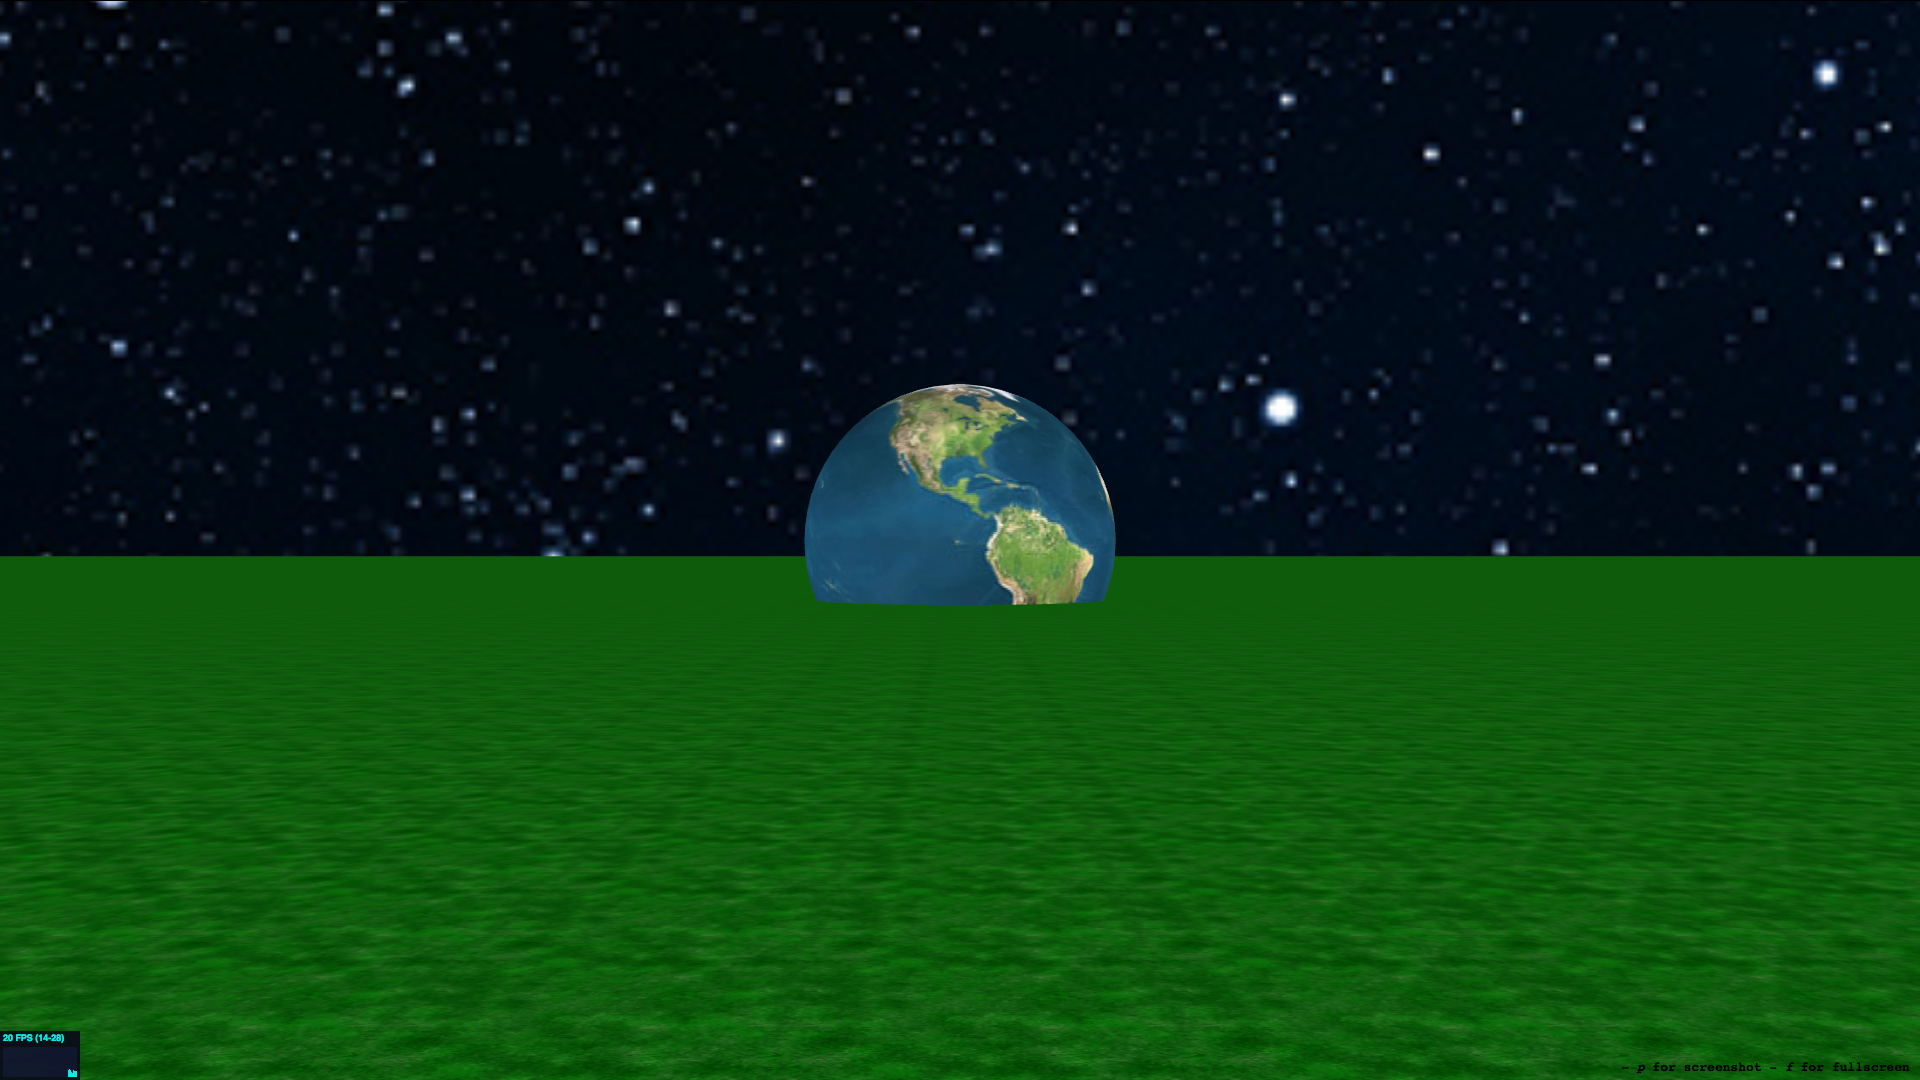
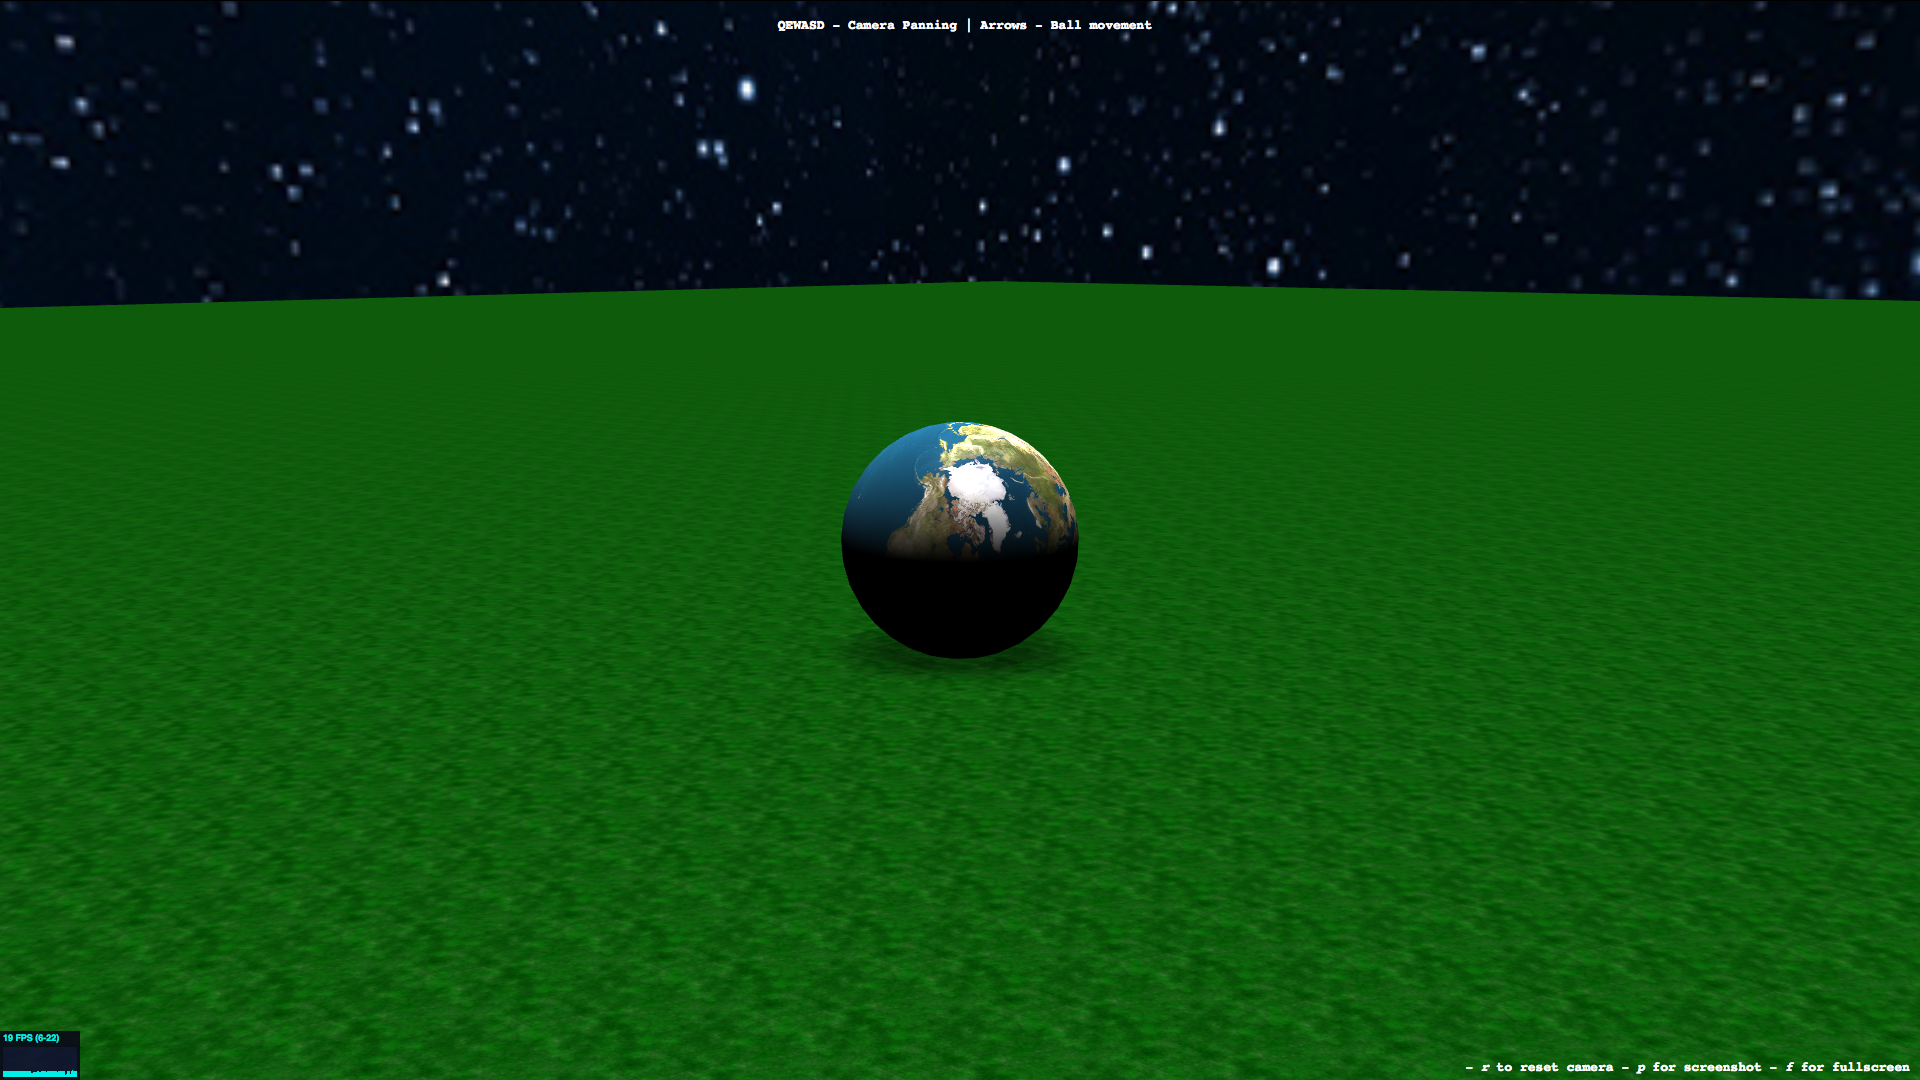
Bugfixes ; New Demo picture

diff --git a/index.html b/index.html
@@ -243,7 +243,7 @@
 					sphere.rotation.z -= (45/180) * Math.PI;
 				}
 				else {
-			        sphere.position.x = x * Math.cos(sphereRotSpeed) + z * Math.sin(sphereRotSpeed);
+			        sphere.position.x -= 1
 			        sphere.rotation.z += (45/180) * Math.PI;
 					if (Math.abs(sphere.position.x - camera.position.x) < 20) camera.position.x -= 1;
 				}
@@ -254,7 +254,7 @@
 					sphere.rotation.z += (45/180) * Math.PI;
 				}
 				else {
-			        sphere.position.x = x * Math.cos(sphereRotSpeed) - z * Math.sin(sphereRotSpeed);
+			        sphere.position.x += 1
 			        sphere.rotation.z -= (45/180) * Math.PI;
 					if (Math.abs(sphere.position.x - camera.position.x) > 20) camera.position.x += 1;
 				}
